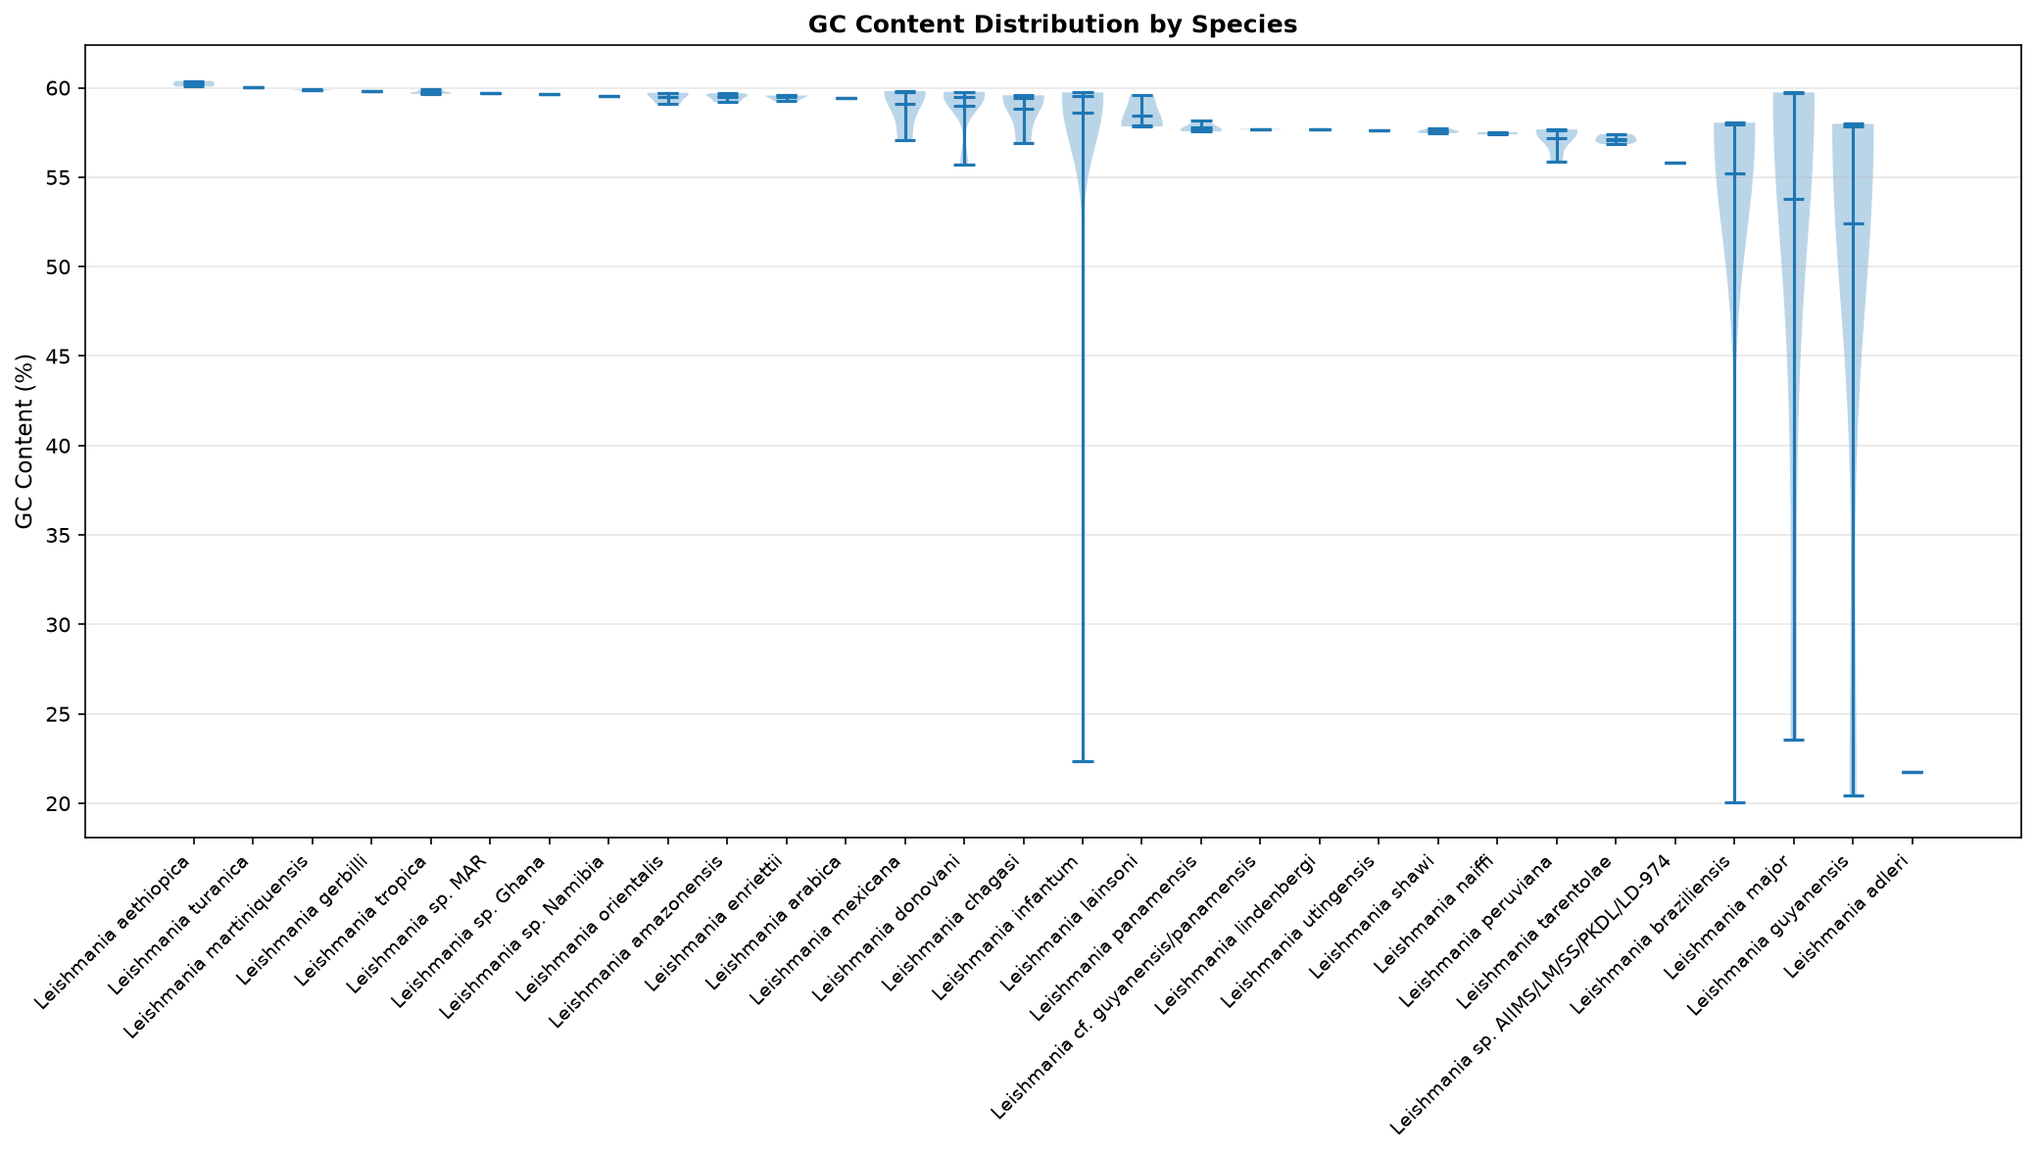
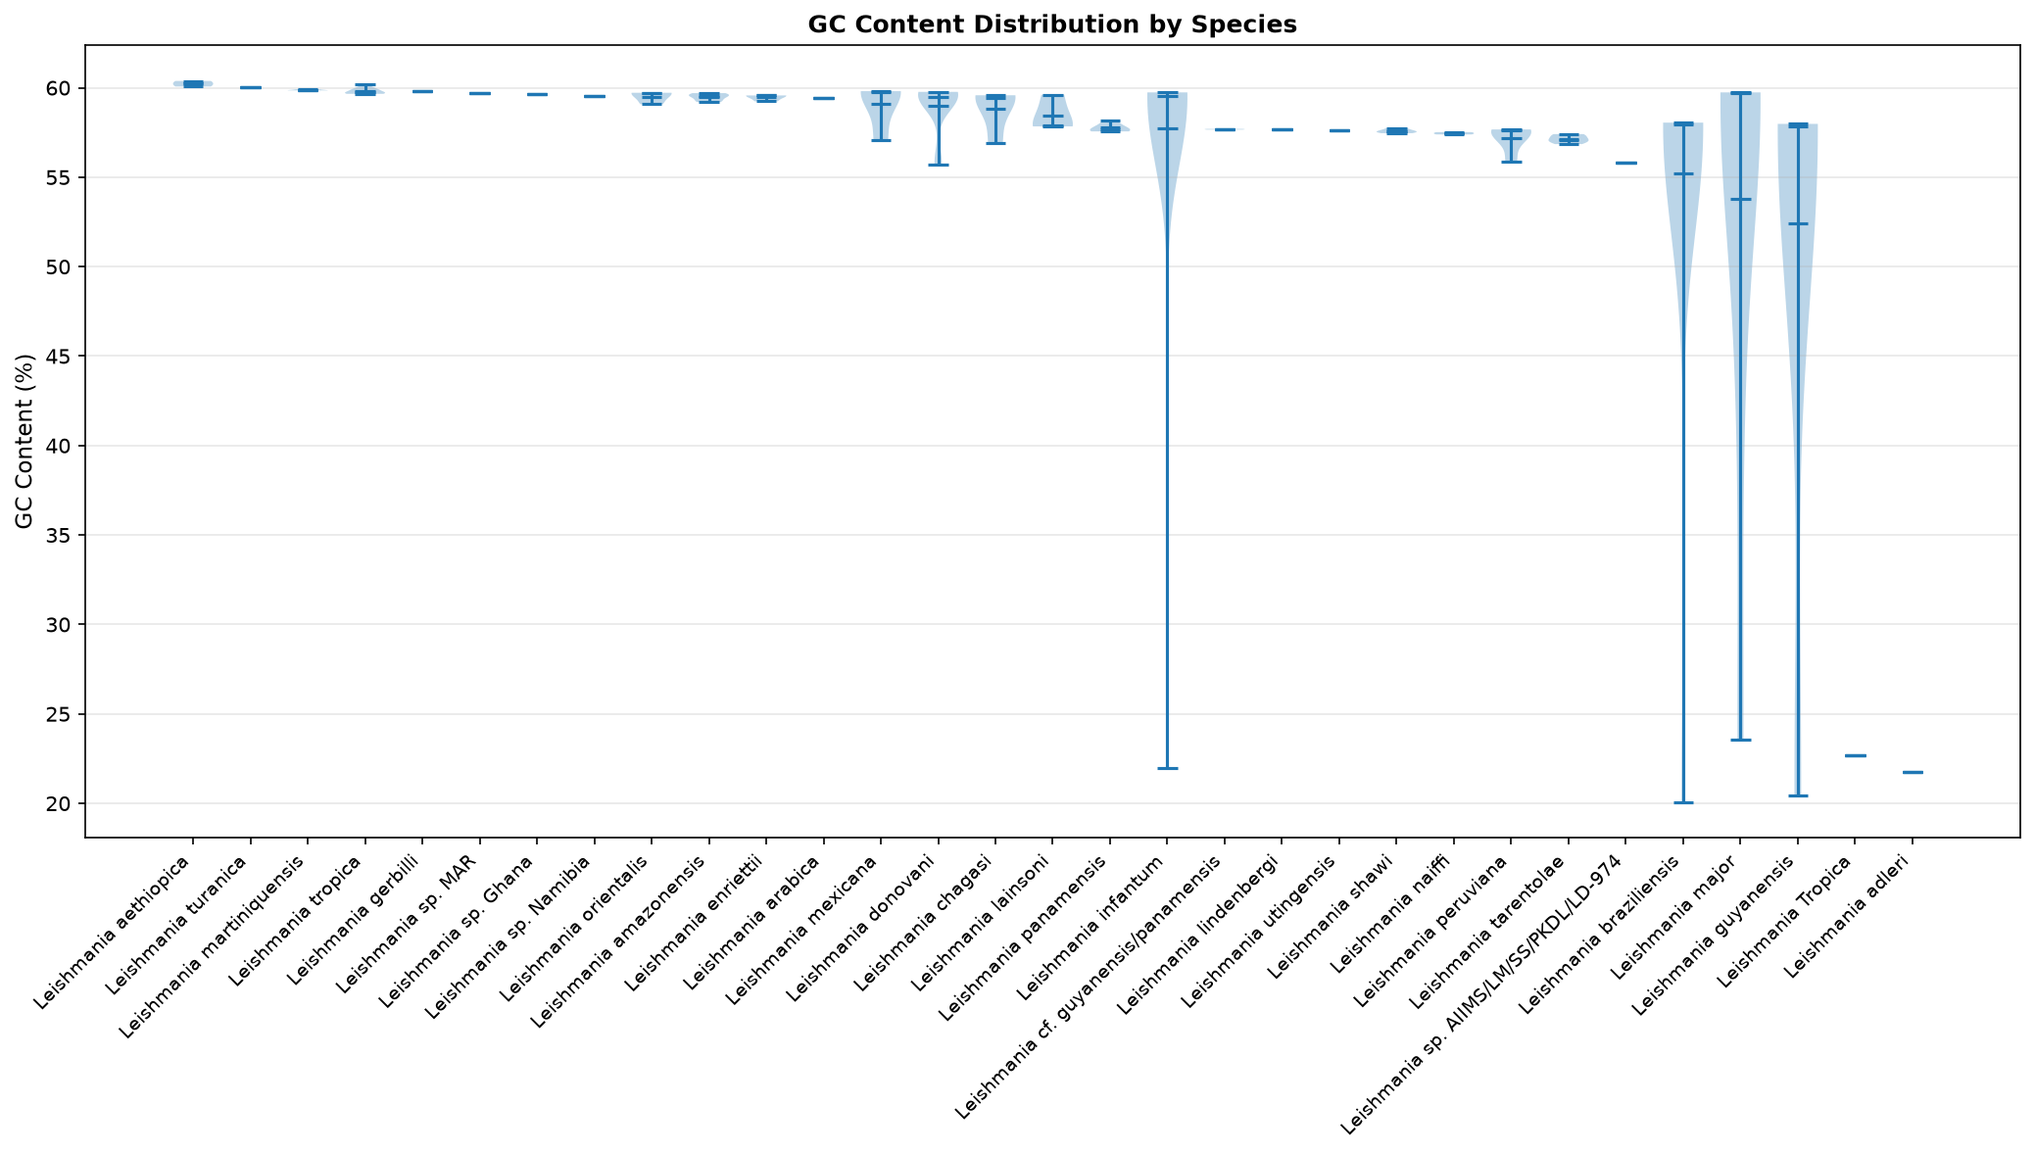
update doc and tests

diff --git a/tests/test_chromosomes.py b/tests/test_chromosomes.py
@@ -1,0 +1,143 @@
+"""Chromosome name mapping and sequence renaming, exercised directly (no CLI)."""
+
+from leishref.chromosomes import (
+    detect_sequences_from_fasta,
+    get_chromosome_info,
+    load_chromosome_map,
+    rename_fasta_sequences,
+    save_chromosome_map,
+)
+
+
+def test_load_chromosome_map_missing_file_returns_empty(tmp_path):
+    assert load_chromosome_map(tmp_path) == {}
+
+
+def test_save_and_load_chromosome_map_roundtrip(tmp_path):
+    mapping = {"acc1": [{"accession": "c1", "index": 1, "name": "c1"}]}
+    save_chromosome_map(mapping, tmp_path)
+
+    assert (tmp_path / "chromosome_map.yaml").exists()
+    assert load_chromosome_map(tmp_path) == mapping
+
+
+def test_get_chromosome_info_returns_empty_for_unknown_accession(tmp_path):
+    assert get_chromosome_info("nope", tmp_path) == []
+
+
+def test_detect_sequences_from_fasta_marks_37th_as_maxicircle(tmp_path):
+    fasta = tmp_path / "assembly.fa"
+    fasta.write_text("".join(f">seq{i}\nACGT\n" for i in range(1, 39)))
+
+    sequences = detect_sequences_from_fasta(fasta)
+
+    assert len(sequences) == 38
+    assert sequences[36]["accession"] == "seq37"
+    assert sequences[36]["type"] == "maxicircle"
+    assert "type" not in sequences[0]
+    assert "type" not in sequences[37]
+
+
+def test_rename_fasta_sequences_reports_when_fasta_has_no_headers(tmp_path):
+    fasta = tmp_path / "empty.fa"
+    fasta.write_text("ACGTACGT\n")
+
+    content, name_map, error = rename_fasta_sequences(fasta, "acc", "number", tmp_path)
+
+    assert name_map == {}
+    assert "No sequences found" in error
+
+
+def test_rename_fasta_sequences_auto_detects_and_persists_the_map(tmp_path):
+    fasta = tmp_path / "assembly.fa"
+    fasta.write_text(">c1\nACGT\n>c2\nTTTT\n")
+
+    content, name_map, error = rename_fasta_sequences(fasta, "myacc", "number", tmp_path)
+
+    assert error is None
+    assert name_map == {"c1": "1", "c2": "2"}
+    assert ">1\nACGT\n>2\nTTTT\n" == content
+
+    # Auto-detection is persisted, so a second call reuses it instead of re-detecting
+    assert get_chromosome_info("myacc", tmp_path) == [
+        {"accession": "c1", "name": "c1", "index": 1},
+        {"accession": "c2", "name": "c2", "index": 2},
+    ]
+
+
+def test_rename_fasta_sequences_contig_ids_are_never_renamed(tmp_path):
+    fasta = tmp_path / "assembly.fa"
+    fasta.write_text(">NW_012345.1\nACGT\n")
+
+    content, name_map, error = rename_fasta_sequences(fasta, "acc", "number", tmp_path)
+
+    assert error is None
+    assert name_map == {"NW_012345.1": "NW_012345.1"}
+    assert ">NW_012345.1\nACGT\n" in content
+
+
+def test_rename_fasta_sequences_maxicircle_flavor_override(tmp_path):
+    fasta = tmp_path / "assembly.fa"
+    fasta.write_text(">c37\nACGT\n")
+    save_chromosome_map({"acc": [{"accession": "c37", "name": "c37", "index": 1, "type": "maxicircle"}]}, tmp_path)
+
+    content, name_map, error = rename_fasta_sequences(fasta, "acc", "number", tmp_path)
+
+    assert error is None
+    assert name_map == {"c37": "maxicircle"}
+    assert ">maxicircle\nACGT\n" in content
+
+
+def test_rename_fasta_sequences_name_flavor_uses_stored_name(tmp_path):
+    fasta = tmp_path / "assembly.fa"
+    fasta.write_text(">c1\nACGT\n")
+    save_chromosome_map({"acc": [{"accession": "c1", "name": "chr I", "index": 1}]}, tmp_path)
+
+    content, name_map, error = rename_fasta_sequences(fasta, "acc", "name", tmp_path)
+
+    assert error is None
+    assert name_map == {"c1": "chr I"}
+    assert ">chr I\nACGT\n" in content
+
+
+def test_rename_fasta_sequences_kraken_without_taxid_errors(tmp_path):
+    fasta = tmp_path / "assembly.fa"
+    fasta.write_text(">c1\nACGT\n")
+
+    content, name_map, error = rename_fasta_sequences(fasta, "acc", "kraken", tmp_path, taxon_id=None)
+
+    assert name_map == {}
+    assert "requires --taxid" in error
+
+
+def test_rename_fasta_sequences_unknown_flavor_keeps_original_name(tmp_path):
+    fasta = tmp_path / "assembly.fa"
+    fasta.write_text(">c1\nACGT\n")
+
+    content, name_map, error = rename_fasta_sequences(fasta, "acc", "bogus", tmp_path)
+
+    assert error is None
+    assert name_map == {"c1": "c1"}
+
+
+def test_rename_fasta_sequences_header_description_is_dropped(tmp_path):
+    """A header with a description after the ID keeps only the new ID."""
+    fasta = tmp_path / "assembly.fa"
+    fasta.write_text(">c1 some description here\nACGT\n")
+
+    content, name_map, error = rename_fasta_sequences(fasta, "acc", "number", tmp_path)
+
+    assert error is None
+    assert ">1\nACGT\n" in content
+    assert "description" not in content
+
+
+def test_rename_fasta_sequences_preserves_sequence_data(tmp_path):
+    """Regression: the header regex must never swallow the following sequence line."""
+    fasta = tmp_path / "assembly.fa"
+    fasta.write_text(">c1\nACGTACGTACGT\n>c2\nTTTTGGGGCCCC\n")
+
+    content, name_map, error = rename_fasta_sequences(fasta, "acc", "number", tmp_path)
+
+    assert error is None
+    assert content == ">1\nACGTACGTACGT\n>2\nTTTTGGGGCCCC\n"

diff --git a/tests/test_prune.py b/tests/test_prune.py
@@ -1,0 +1,29 @@
+"""Scaffold pruning: keep mapped chromosomes plus anything kinetoplast-like."""
+
+from leishref.prune import is_kinetoplast, prune_fasta
+
+
+def test_is_kinetoplast_matches_known_patterns():
+    for name in ("kinetoplast", "maxicircle", "maxi_1", "mitochondrion", "mitochondrial_dna", "mtDNA", "mt_dna_1"):
+        assert is_kinetoplast(name), name
+
+
+def test_is_kinetoplast_rejects_unrelated_names():
+    assert not is_kinetoplast("chromosome1")
+    assert not is_kinetoplast("NW_012345.1")
+
+
+def test_prune_fasta_keeps_only_mapped_and_kinetoplast_sequences(tmp_path):
+    fasta = tmp_path / "assembly.fa"
+    fasta.write_text(">chr1\nACGT\n>unmapped_contig\nTTTT\n>maxicircle\nGGGG\n")
+
+    pruned = prune_fasta(fasta, {"chr1"})
+
+    assert pruned == ">chr1\nACGT\n>maxicircle\nGGGG\n"
+
+
+def test_prune_fasta_drops_everything_when_nothing_matches(tmp_path):
+    fasta = tmp_path / "assembly.fa"
+    fasta.write_text(">unmapped\nACGT\n")
+
+    assert prune_fasta(fasta, {"chr1"}) == ""

diff --git a/tests/test_metadata.py b/tests/test_metadata.py
@@ -221,7 +221,7 @@ def test_ncbi_entries_record_assembly_level_and_release_date():
 
 
 def test_assembly_levels_come_from_a_known_vocabulary():
-    allowed = {"Complete Genome", "Chromosome", "Scaffold", "Contig"}
+    allowed = {"Complete Genome", "Chromosome", "Scaffold", "Contig", "Unknown"}
     for entry in catalog():
         if entry.assembly_level:
             assert entry.assembly_level in allowed, f"{entry.identifier}: {entry.assembly_level!r}"

diff --git a/docs/usage.rst b/docs/usage.rst
@@ -38,7 +38,7 @@ User commands
     ╭─ Using the database ───────────────────────────────────────────────────────────────────────────────────────╮
     │ search                  Find catalog genomes matching every TERM.                                          │
     │ info                    List the catalog and the cached database, or show one genome in full.              │
-    │ install                 Download a catalog genome and cache it with ALIAS.                                 │
+    │ install                 Download a catalog genome and cache it, with a symlink named ALIAS.                 │
     │ install-ncbi            Install all NCBI entries from the catalog.                                         │
     │ install-ncbi-refseq     Install all RefSeq (GCF) NCBI entries from the catalog.                            │
     │ restore                 Re-download every genome listed in accessions.txt in the current directory.        │
@@ -50,16 +50,23 @@ User commands
     ╰────────────────────────────────────────────────────────────────────────────────────────────────────────────╯
     ╭─ For maintainers and developers ───────────────────────────────────────────────────────────────────────────╮
     │ dev      Commands for maintaining the shipped catalog.                                                     │
-    │ link     Refresh the alias-named symlinks for everything installed locally.                                │
+    │ link     Refresh the alias-named symlinks for everything installed from here.                              │
     ╰────────────────────────────────────────────────────────────────────────────────────────────────────────────╯
     ╭─ Plotting ─────────────────────────────────────────────────────────────────────────────────────────────────╮
-    │ plot-stats                Plot genome statistics: genome size, scaffold count, contig count, scaffold N50. │
-    │ plot-sizes                Plot genome sizes by species.                                                    │
-    │ plot-histogram            Plot histogram of genome sizes.                                                  │
-    │ plot-chromosome-histogram Plot chromosome/sequence length histogram from available local FASTA files.      │
+    │ plot-stats                   Plot genome statistics: genome size, scaffold count, contig count, scaffold   │
+    │                              N50.                                                                          │
+    │ plot-sizes                   Plot genome sizes by species.                                                 │
+    │ plot-histogram               Plot histogram of genome sizes.                                               │
+    │ plot-chromosome-histogram    Plot chromosome/sequence length histogram from available local FASTA files.   │
+    │ plot-completeness            Plot pie chart of genome completeness (assembly_level breakdown).             │
+    │ plot-technology              Plot pie chart of sequencing technology distribution.                         │
+    │ plot-assembly-by-technology  Plot assembly level (quality) vs sequencing technology.                        │
+    │ plot-species-count           Plot bar chart of genome count per species.                                   │
+    │ plot-gc-content              Plot GC content distribution by species.                                      │
     ╰────────────────────────────────────────────────────────────────────────────────────────────────────────────╯
     ╭─ Options ──────────────────────────────────────────────────────────────────────────────────────────────────╮
-    │ --help  Show this message and exit.                                                                        │
+    │ --version  Show the version and exit.                                                                      │
+    │ --help     Show this message and exit.                                                                     │
     ╰────────────────────────────────────────────────────────────────────────────────────────────────────────────╯
 
 For the dev part, use::

diff --git a/README.md b/README.md
@@ -51,21 +51,24 @@ Using the database and maintaining it are different jobs, so the commands are sp
 
 ```console
 $ leishref --help
-  download   Install a catalog genome into the local database under ALIAS
+  install    Download a catalog genome and cache it, with a symlink named ALIAS
   info       List the catalog and the local database
   search     Find catalog genomes matching every term
   verify     Check the local database against recorded checksums
+  restore    Re-download everything listed in accessions.txt
   link       Refresh the alias-named symlinks
   dev        Commands for maintaining the shipped catalog
 
 $ leishref dev --help
   fetch-genome      Add an NCBI genome assembly to the catalog
   fetch-nucleotide  Add a standalone NCBI nuccore record to the catalog
-  add               Add a local assembly to the catalog
+  add               Stage a local assembly for review and publishing to Zenodo
+  import            Add catalog entries from NCBI without downloading any sequence
   scaffold          Scaffold an assembly against a reference with ragtag
-  publish           Deposit an installed genome on Zenodo
-  derive-agp        Derive an AGP showing how one assembly was laid out from another
+  publish           Deposit a genome's files on Zenodo and record the DOI
 ```
+
+See the [command reference](docs/commands.rst) (or `leishref --help` / `leishref dev --help`) for the full list.
 
 Everything under `dev` writes to `leishref/data/`, the catalog that ships with the
 package. Those changes are meant to travel as a pull request.
@@ -353,61 +356,10 @@ sequence data never enters the repository.
 
 ---
 
-## Derivation model
-
-Contig counts differ wildly between sources for the same organism. For *L. tropica* L590:
-
-| source | sequences |
-|---|---|
-| NCBI `GCA_000410715.1` | 448 (182 scaffolds + 266 WGS contigs) |
-| TriTrypDB-68 | 160 (36 chromosomes + 124 supercontigs) |
-| ragtag on Ld1S | 140 |
-
-These are **not three genomes**. They are one sequence with three chromosome
-assignments. Measured on the NCBI/TriTrypDB pair: non-N content differs by 324 bases
-in 31.3 Mb (0.001%), and every large NCBI scaffold appears inside the TriTrypDB
-assembly — about half of them reverse-complemented, joined with 100-N padding.
-
-So leishref records a layout as a **derivation**, not as a new genome:
-
-- `derived_from` — the parent assembly supplying the sequence
-- `agp_filename` — an AGP giving order, orientation and gaps relative to that parent
-
-Two consequences:
-
-1. **Choosing what to use** becomes an explicit choice of layout over one lineage,
-   not a guess about which FASTA is "better".
-2. **Third-party sequence never needs redistributing.** An AGP is coordinates —
-   a few hundred KB of facts. `leishref derive-agp` produces one; `apply_agp()`
-   regenerates the child FASTA from parent + AGP. Zenodo depositions therefore
-   only ever carry your own assemblies, your AGPs, and the manifest.
-
-```bash
-leishref derive-agp \
-  NCBI/GCA_000410715.1_Leishmania_tropica_L590-2.0.2_genomic.fna \
-  TriTryDB68/TriTrypDB-68_LtropicaL590_Genome.fasta \
-  --record
-
-#   parent sequences:  448 (441 placed)
-#   child sequences:   160 (158 used)
-#   blocks placed:     1894/1938
-#   orientation:       969 forward, 925 reverse
-#   coverage:          97.556% of non-N parent bases
-#   Same sequence, different layout: child is a re-scaffolding of parent.
-```
-
-Coverage below ~95% means the two really are different assemblies, not a re-layout.
-
-The residual on this pair (2.4% N from unplaced blocks, 0.026% true mismatch on
-round-trip) is TriTrypDB's own sequence editing — visible precisely *because* the
-layout is now explicit.
-
 ### TriTrypDB access
 
-TriTrypDB downloads now require a login, so `leishref fetch-tritrypdb` cannot fetch
-unattended. Download the release by hand, then register each genome as a derivation
-of its NCBI parent with `derive-agp --record`. Their GFF is in chromosome
-coordinates and NCBI's is in scaffold coordinates; the same AGP is what relates them.
+TriTrypDB downloads now require a login, so leishref can't fetch them unattended.
+Download the release by hand, then register it with `leishref dev add`.
 
 ---
 
@@ -439,7 +391,6 @@ leishref/
   ncbi.py       datasets CLI wrapper
   tritrypdb.py  TriTrypDB download (needs a login; see above)
   scaffold.py   ragtag wrapper and AGP-based cleaning
-  agp.py        AGP derivation and reconstruction
   zenodo.py     deposition and record download
   data/         THE CATALOG, one directory per genome
 ```

diff --git a/docs/troubleshooting.rst b/docs/troubleshooting.rst
@@ -117,15 +117,17 @@ Checksum mismatch after ``leishref verify``
       mismatch: 1
 
     CHECKSUM MISMATCH:
-      Ld1S: /home/you/.config/leishref/Ld1S/GCA_000227135.2_ASM22713v2_genomic.fna
+      GCA_000227135.2: /home/you/.config/leishref/GCA_000227135.2/GCA_000227135.2_ASM22713v2_genomic.fna
 
 The file on disk no longer matches the md5 recorded when it was installed —
 typically because it was edited in place (``rename-sequences`` and
 ``prune-scaffold`` intentionally do this and update the stored checksum
-themselves; anything else touching the file directly won't). Re-install to restore
-the original::
+themselves; anything else touching the file directly won't). The label is the
+genome's catalog identifier/accession (what the shared cache is keyed by), not
+whatever alias you installed it under - check ``accessions.txt`` if you need to
+match it back to one. Re-install to restore the original::
 
-    leishref install <name> --alias Ld1S --force
+    leishref install GCA_000227135.2 --alias Ld1S --force
 
 Duplicate catalog entries or aliases
 ------------------------------------------

diff --git a/docs/workflow.rst b/docs/workflow.rst
@@ -20,8 +20,9 @@ The common case: find a genome, install it, and confirm it's intact.
     # Confirm the checksum matches what the catalog recorded
     leishref verify
 
-``leishref install`` creates ``~/.config/leishref/Ld1S/`` with the FASTA (and GFF, if
-the catalog entry has one) plus an absolute symlink ``Ld1S.fna`` in the current
+``leishref install`` creates ``~/.config/leishref/GCA_000227135.2/`` with the FASTA
+(and GFF, if the catalog entry has one) - the shared cache is keyed by accession,
+not by the alias you chose - plus an absolute symlink ``Ld1S.fna`` in the current
 directory, and appends the install to ``./accessions.txt`` so it can be replayed
 later with ``leishref restore``.
 

diff --git a/docs/metadata.rst b/docs/metadata.rst
@@ -40,8 +40,8 @@ Core fields
     submitted as a "genome assembly" still comes back as e.g. ``Chromosome`` - so
     nothing infers it automatically; set it by hand with ``--molecule-type`` on
     ``dev fetch-genome``, ``dev fetch-nucleotide``, or ``dev add``. Included in
-    :doc:`search`, so ``leishref search kinetoplast`` finds anything tagged this way
-    regardless of species or accession.
+    :doc:`commands`'s ``leishref search``, so ``leishref search kinetoplast`` finds
+    anything tagged this way regardless of species or accession.
 
 **release_date** (date)
     Date assembled (ISO 8601 format).
